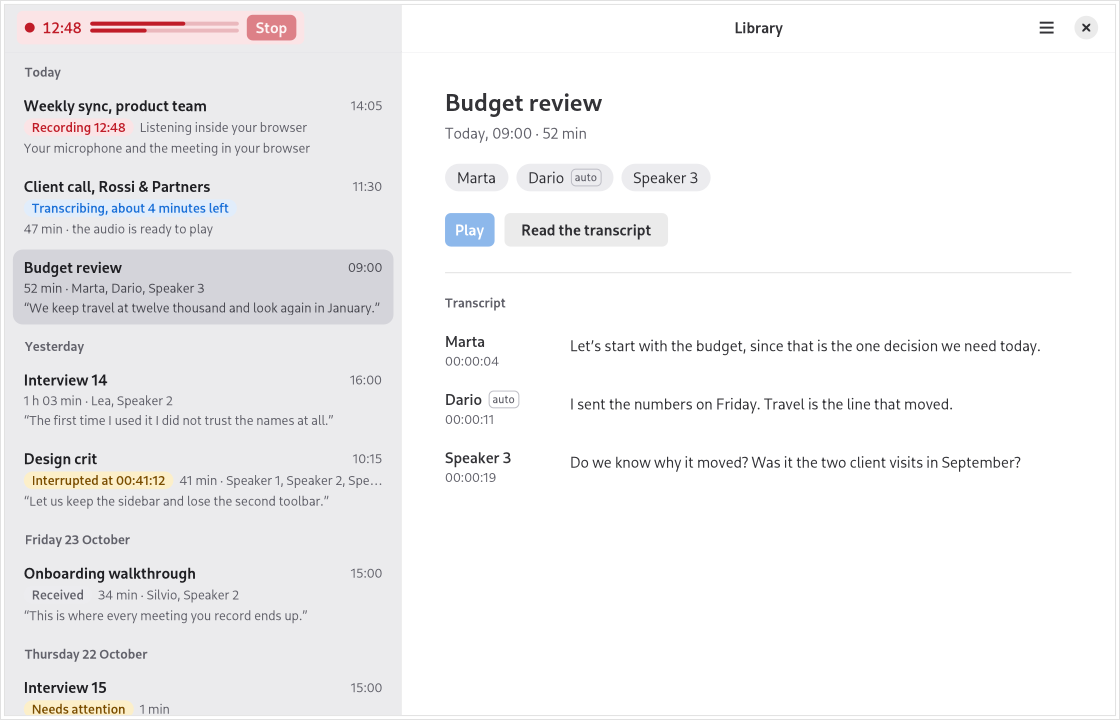
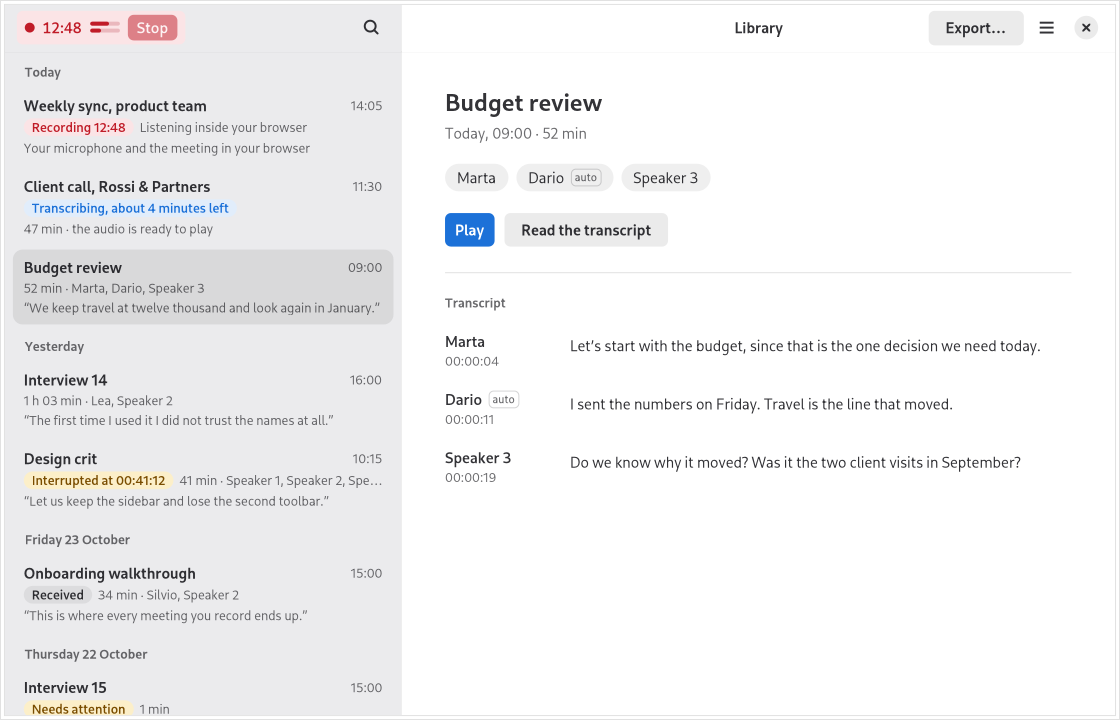
Bring the README up to date with what Cassini does today
Describe the features now on main for people who record meetings:
recording straight into the Library with the Recording page and timed
notes, recording while Cassini is hidden, writing meetings down offline
with the included speech model, reading a meeting with timed playback,
Search every meeting, Received meetings and Export (Cassini file or
Markdown). Remove features that are gone (old export formats, the
separate recording window) and keep "What's coming" to things not yet
merged.

Add real app screenshots of the meeting page, Recording page, Search,
Received and Export, and refresh the Library and first-run images.
Screenshots come from the ux-boards artifact of the UX boards CI run for
the commit merged as d0c3b71 (run 40640395933). The install section
says plainly that v0.2.0 predates these features.

diff --git a/README.md b/README.md
@@ -1,78 +1,125 @@
 # Cassini
 
-Cassini is a GNOME desktop app for Linux that records your meetings and lets you read them back on this computer.
+Cassini is a GNOME desktop app for Linux that records your meetings, writes them down, and lets you read and search them on this computer.
 
 ![The Library with sample meetings](docs/screenshots/library.png)
 
-*The Library with sample meetings. Some sample rows show planned states—such as writing a meeting down on this computer (`Transcribing…`), recognising saved voices (`auto`), and `Needs attention`—that are not finished yet.*
+*The Library with sample meetings. The small `auto` tag next to a name comes from the sample data: recognising saved voices is not available yet.*
 
 ## What you can do
 
-- Browse your meetings in the Library, grouped by day, with a preview of the speakers and transcript and one-click playback for portable `.opus` meetings.
-- Record a meeting on this computer from your microphone, the others on your computer's audio output, or both together.
-- Record meetings in Chrome or Chromium with the browser companion, either when you press Record or automatically when you join a call.
-- Open portable `.opus` meetings to listen while the transcript highlights each spoken word and scrolls along with playback.
-- Click any word or timestamp to play from that moment, search within the transcript, and switch between transcripts when a meeting carries more than one.
-- Read the meeting summary when a file includes one, and click its topics or action items to jump to that point in the audio.
-- Check that a portable meeting's audio still matches its transcript, and export the transcript from the meeting window as plain text or WebVTT subtitles.
+- Record a meeting from your microphone and this computer's sound (the others) straight into your Library with one press of **Record**.
+- Write meetings down automatically on this computer, offline, using the speech model included in the app.
+- Read a meeting while you listen, with each word highlighted as it plays and any word clickable to play from that moment.
+- Search every meeting for a phrase and filter results by speaker, date, or meetings you recorded yourself.
+- Open Cassini `.opus` files from elsewhere on your computer to keep a copy in your Library as a **Received** meeting.
+- Export any meeting to share or back up, either as a portable Cassini `.opus` audio file or as a Markdown text file.
+- Record calls in Chrome or Chromium so each person in the call is kept apart in the transcript.
 
 ## Get started
 
 ### Install
 
-Download a package from the [latest release](https://github.com/codemyriad/cassini-gnome/releases), or grab a test build from the latest [CI run](https://github.com/codemyriad/cassini-gnome/actions).
+Packages are on the [Releases page](https://github.com/codemyriad/cassini-gnome/releases). The latest release, [v0.2.0](https://github.com/codemyriad/cassini-gnome/releases/tag/v0.2.0), has `.deb`, Fedora `.rpm`, openSUSE Tumbleweed `.rpm`, Arch, and Flatpak packages, but it is the earlier viewer: the Library, Recording page, writing down, Search every meeting, Received meetings, and Export described here come with the next release. Until then, you can download test packages built from `main` on each successful [CI run](https://github.com/codemyriad/cassini-gnome/actions/workflows/ci.yml?query=branch%3Amain) (a GitHub account is needed to download them), or build from source ([CONTRIBUTING.md](CONTRIBUTING.md)).
 
-Native packages need GTK 4.18 and libadwaita 1.8 or newer (available in Debian testing, Ubuntu 26.04, Fedora 43 and later, openSUSE Tumbleweed, Arch Linux, and Alpine edge). On older distributions (such as Debian 13, Ubuntu 24.04, openSUSE Leap, or RHEL), install the Flatpak.
+Native packages need GTK 4.18 and libadwaita 1.8 or newer (Debian testing, Ubuntu 26.04, Fedora 43 and later, openSUSE Tumbleweed, and Arch Linux). On older distributions (Debian 13, Ubuntu 24.04, openSUSE Leap, and RHEL), use the Flatpak. The test packages built from `main` are for 64-bit Intel and AMD (`x86_64`) computers: `.deb` packages for Ubuntu 26.04 and Debian testing, Fedora and openSUSE RPMs, an Arch package, and the Flatpak.
 
-- **Flatpak** (any distribution, using the GNOME 50 runtime from Flathub):
+- **Flatpak** (uses the GNOME 50 runtime from Flathub; browser recording is not available in the Flatpak):
 
   ```sh
   flatpak install --user cassini-viewer.flatpak
   ```
 
-  The Flatpak does not support the browser companion yet, because the browser cannot reach Cassini inside the Flatpak and the Flatpak cannot read browser recordings in `Music/Cassini`. Use a native package below if you want to record meetings from your browser.
-
 - **Debian and Ubuntu**:
 
   ```sh
-  sudo apt install ./cassini-viewer_*_all.deb
+  sudo apt install ./cassini-viewer_*.deb
   ```
 
 - **Fedora**:
 
   ```sh
-  sudo dnf install ./cassini-viewer-*.fc*.noarch.rpm
+  sudo dnf install ./cassini-viewer-*.rpm
   ```
 
 - **openSUSE Tumbleweed**:
 
   ```sh
-  sudo zypper install ./cassini-viewer-*.opensuse_tumbleweed.noarch.rpm
+  sudo zypper install ./cassini-viewer-*.rpm
   ```
 
 - **Arch Linux**:
 
   ```sh
-  sudo pacman -U cassini-viewer-*-any.pkg.tar.zst
+  sudo pacman -U cassini-viewer-*.pkg.tar.zst
   ```
 
 ### Your first meeting
 
 ![The Library before your first meeting](docs/screenshots/first-run.png)
 
-*The Library when you first open Cassini. Automatic writing down of new recordings shown in the hint is planned.*
+*The Library before your first meeting.*
 
-Open Cassini to see the Library. Press **Record** (or press `Ctrl+R` from anywhere in Cassini) to open the recording window.
+Press **Record** in the Library (or press `Ctrl+R` anywhere in Cassini). Cassini starts recording your microphone and this computer's sound (the others) together, straight into the Library, without asking where to save a file.
 
-Choose your microphone, the others (desktop audio), or both, then press **Record…** and pick where to save the `.opus` file. Wear headphones when recording your microphone without a headset so your microphone does not pick up the others from your speakers.
+The first time you record, a **Before your first recording** card reminds you that you are responsible for telling the people you record and explains what will be recorded. Choose **Don't show again** to hide the card next time. Your desktop may also ask you to allow Cassini to use your microphone.
 
-When the meeting ends, press **Stop** (**Stop and Save** in the recording window, or close that window). Cassini finishes the file and opens your meeting for playback.
+![The Recording page during a sample meeting](docs/screenshots/recording.png)
+
+*The Recording page with a sample meeting. `Change what is recorded` is shown disabled and is not available yet.*
+
+While recording, the Recording page shows a large timer, live sound levels for your microphone and the others, an editable **Title**, and a **Notes** box. Each line you type in **Notes** is pinned to the moment you start typing it. If your microphone is silent for 20 seconds, Cassini shows a warning with a **Check** button that opens your sound settings.
+
+Recording keeps going if you return to the Library. If you close the window, Cassini asks whether to **Stop and keep it** or **Keep recording** in the background. While Cassini is hidden, a desktop notification shows the active recording with **Stop** and **Open Cassini** buttons. You can also press `Ctrl+Alt+R` to start or stop recording from anywhere on the desktop (GNOME asks you to allow this shortcut the first time). Your computer will not go to sleep while Cassini is recording. If disk space runs low, Cassini warns you; if it gets too low, Cassini stops recording and keeps everything recorded so far.
+
+When the meeting ends, press **Stop** on the Recording page, in the red pill in the Library header, or in the desktop notification. The Library shows the meeting saving, and then begins writing it down.
+
+### Read and search your meetings
+
+![A sample meeting open for reading and playback](docs/screenshots/meeting.png)
+
+*A meeting page with a sample meeting. Speaker labels such as `Named by you`, `Recognised from saved voices`, and `auto` come from sample data and are not features yet.*
+
+When a recording stops, Cassini writes it down automatically on this computer, offline, using the included Whistle speech model. The Library shows progress and an estimate of the time left. If you close Cassini, it continues next time you open the app; if writing down fails, press **Try again**. Older recordings and Received meetings without a transcript have a **Write it down** button. Writing down is available on `x86_64` (64-bit Intel and AMD) computers in both the native packages and the Flatpak; on other computers, the **Write it down** button is hidden.
+
+In a meeting recorded from your microphone and computer sound, words are attributed to **Me** and **The others**. In browser recordings, each person in the call is kept apart as **Speaker 1**, **Speaker 2**, and so on.
+
+In the Library, meetings are grouped by day with a quote, the speakers, and a short transcript preview. You can start playback straight from the preview, or open the meeting to see each speaker's share of the conversation and read the full transcript. As the meeting plays, words are highlighted and the transcript scrolls along. Click any word to play from that moment, use the player bar to skip 10 seconds back or forward, or press `Space` to play and pause.
+
+![Searching across sample meetings](docs/screenshots/search.png)
+
+*Search every meeting with sample meetings. Filtering by speaker uses speaker names already stored in a meeting; naming speakers and `auto` voice recognition shown in the sample are not features yet.*
+
+To find something across all of your meetings, press the magnifier in the Library or press `Ctrl+F` to open **Search every meeting**. Type a phrase to find every matching moment. You can narrow results by speaker (when a meeting has named speakers), by date (**Today**, **Past 7 days**, or **Past 30 days**), and with **Recorded by me**. Each result shows the words around the match: press **Play from** to listen right there, or **Open the meeting here** to jump to that point in the full transcript. Filters reset when you close Search. The search index is private, kept in Cassini's cache folder, and never written into your Library.
+
+### Open meetings you receive
+
+![A sample Received meeting in the Library](docs/screenshots/received.png)
+
+*A sample meeting in the Library marked as `Received`.*
+
+When someone sends you a Cassini `.opus` meeting file, you can open it by choosing **Open…** in the main menu (`Ctrl+O`), opening the file with Cassini from your file manager, or dragging and dropping it onto the Library window.
+
+Cassini copies the file into your Library and marks it as **Received**. Your original file is left untouched, and the copy in your Library stays even if you move or delete the original. Opening the same file a second time opens the existing copy instead of creating a duplicate.
+
+### Export a meeting
+
+![The Export dialog on a sample meeting](docs/screenshots/export.png)
+
+*The Export dialog over a sample meeting. The note about recognised speakers comes from sample data; recognising voices is not a feature yet.*
+
+To share a meeting or back it up elsewhere, press **Export…** in the Library header, in the meeting header, or in the main menu (or press `Ctrl+Shift+E`). You can export in two formats:
+
+- **Cassini file**: a `.opus` audio file with the transcript, speakers, and notes inside, which plays in any audio player.
+- **Markdown**: the transcript as a plain text `.md` file with speakers, times, and your notes.
+
+Cassini saves exported files to your **Documents** folder unless you choose another folder, and never overwrites an existing file. **Export** is the only way a meeting leaves this computer. Voiceprints are never exported.
 
 ### Record meetings in your browser
 
-With the browser companion for Chrome and Chromium, Cassini can detect meetings in your browser and record each person or audio source separately.
+In Chrome and Chromium, Cassini can record calls directly from your browser so each person in the call is kept apart as **Speaker 1**, **Speaker 2**, and so on. Browser recording works with the native packages, not the Flatpak. Until the companion is set up, a meeting may suggest **Set up**, which opens **Browser meetings**.
 
-The companion is set up per user for your own browser profile, never system-wide. Installing a native Cassini package puts the companion files on your computer, and you connect them to your own browser profile:
+The browser companion is set up per user, for your own browser profile, and never system-wide:
 
 1. In Chrome or Chromium, open `chrome://extensions`, turn on **Developer mode**, choose **Load unpacked**, and select `/usr/share/cassini-viewer/browser-extension`. Copy the extension ID shown on the card.
 2. Connect the companion for your user account:
@@ -83,35 +130,31 @@ The companion is set up per user for your own browser profile, never system-wide
 
    For Google Chrome, pass `--browser google-chrome`.
 
-Open the menu in the top right of the Library and choose **Browser meetings…**. Join a call in your browser, press **Record** on its row, and press **Stop** (**Stop and save**) when you are done.
-
-You can also turn on **Record every browser meeting automatically** (off by default). Cassini shows a desktop notification with a **Stop** button whenever an automatic recording starts, even when the Cassini window is closed.
+Then open the main menu in the Library and choose **Browser meetings…**. When you join a call, press **Record** on the meeting's row, and press **Stop** when you are done. You can also turn on **Record every browser meeting automatically** (off by default); a desktop notification with a **Stop** button appears whenever an automatic recording starts, even if the Cassini window is closed.
 
 For local builds, whole-tab audio capture, and troubleshooting, see the [browser companion guide](browser-extension/README.md).
 
 ## Your meetings stay on this computer
 
-Cassini keeps your Library in `Music/Cassini` inside your home folder (`~/Music/Cassini`). Browser recordings are saved there automatically, and the Library watches that folder for changes.
+Cassini stores your Library in `Music/Cassini` inside your home folder (`~/Music/Cassini`), with one folder per meeting.
 
-Everything stays on this computer. There is no account, no cloud service, and nothing is uploaded.
+Everything happens on this computer: recording, writing meetings down offline with the included speech model, and searching across your Library. There is no account, no cloud service, and nothing is uploaded. **Export** is the only way a meeting leaves this computer, and only when you choose.
 
-Cassini also opens [Cassini portable meetings](https://format.gocassini.com/) from anywhere on your computer. A portable meeting is an ordinary `.opus` audio file that carries its transcript, speakers, and summary inside the file itself, so any audio player can play it.
+Exported and Received [portable meetings](https://format.gocassini.com/) are ordinary `.opus` audio files that carry their transcript, speakers, and notes inside the file itself, and play in any audio player.
 
 ## What's coming
 
-- Writing meetings down on this computer with a bundled speech model, so new recordings get a transcript without leaving your machine.
-- Telling speakers apart on this computer and recognising saved voices.
-- Naming speakers in a meeting and keeping those names for future meetings.
-- Searching across every meeting in the Library at once.
-- Exporting transcripts and audio directly from the Library, and playing browser recordings directly from the Library preview.
+- Naming speakers in a meeting, keeping those names for future meetings, and recognising saved voices.
+- Telling apart several people who share one microphone or one computer sound source.
+- Changing what is recorded before you start (for example, recording your microphone only).
 
 ## Help and feedback
 
-If you run into a problem or want to suggest an improvement, open an issue on [GitHub Issues](https://github.com/codemyriad/cassini-gnome/issues). Include your Linux distribution and how you installed Cassini.
+If you run into a problem or want to suggest an improvement, open an issue on [GitHub Issues](https://github.com/codemyriad/cassini-gnome/issues). Please include your Linux distribution and how you installed Cassini.
 
 ## For developers
 
-To build Cassini from source, run the tests, or build packages, see [CONTRIBUTING.md](CONTRIBUTING.md). Technical notes and protocol specifications are in [`docs/`](docs/) and [`browser-protocol/`](browser-protocol/).
+To build Cassini from source, run the tests, or build packages, see [CONTRIBUTING.md](CONTRIBUTING.md). Technical documentation and specifications are in [`docs/`](docs/).
 
 ## License
 
